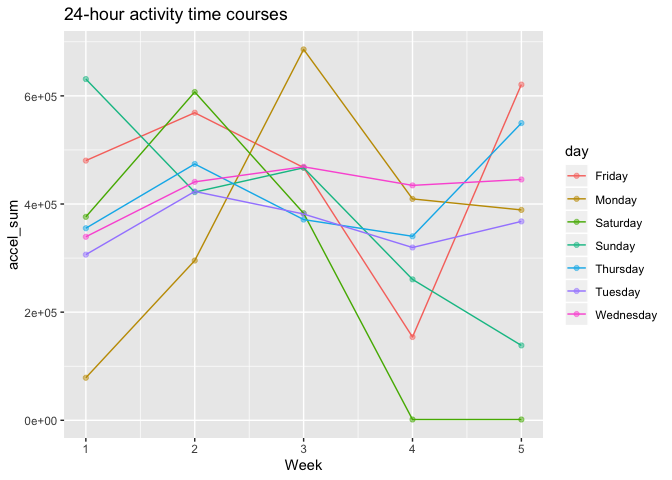
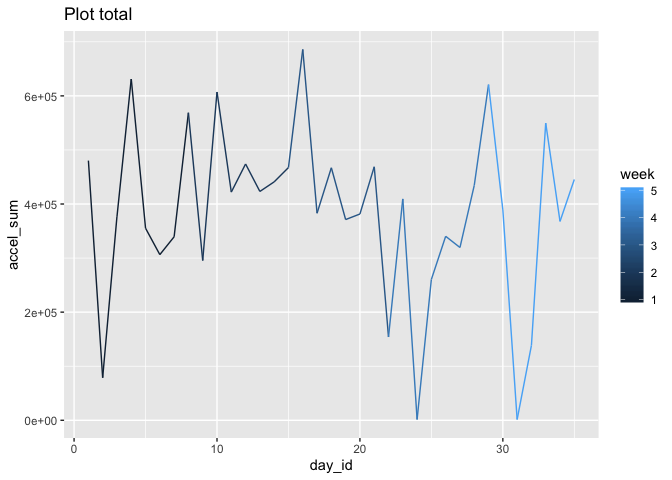
add some comment and make some changes

diff --git a/p8105_hw3_al3998.md b/p8105_hw3_al3998.md
@@ -3,7 +3,9 @@ p8105\_hw3\_al3998
 AimingLiu
 10/3/2019
 
-# Load the data from the p8105.datasets
+# Problem 1
+
+## Load the data from the p8105.datasets
 
 ``` r
 library(p8105.datasets)
@@ -27,7 +29,7 @@ when he/she bought it and the information about the products. It can be
 concluded that the row number of aisle is 134 and the most items ordered
 from fresh vegetables
 
-# Making a plot
+## Making a plot
 
 ``` r
   aisle_form %>% 
@@ -47,7 +49,7 @@ There are 134 aisle have items ordered more than 10000.The aisle which
 was ordered most is fresh vegetables and the number of it is 150609.The
 aisle which was ordered least is beauty and the number of it is 287.
 
-# Making a table showing the three most popular items
+## Making a table showing the three most popular items
 
 ``` r
  pop_form = instacart %>% 
@@ -83,7 +85,7 @@ higher than dog food care which means that packaged vegetables fruits is
 the most popular one in these three
 aisle.
 
-# Make a table showing the mean hour of the day at which Pink Lady Apples and Coffee Ice Cream are ordered on each day of the week
+## Make a table showing the mean hour of the day at which Pink Lady Apples and Coffee Ice Cream are ordered on each day of the week
 
 ``` r
   mean_hour_form = instacart %>% 
@@ -106,7 +108,7 @@ This is a 2\* 8 table.As we can see from the result,on each day of a
 week,the mean hour of the day at which Pink Lady Apples and Coffee Ice
 Cream are ordered are more than 11 and less than 16.And also on each day
 of a week,the mean hour of the day in Coffee Ice Cream is larger than
-Pink Lady Apples except Friday. \#Problem 2
+Pink Lady Apples except Friday. \# Problem 2
 
 ``` r
   library(p8105.datasets)
@@ -172,85 +174,107 @@ average_plot
 The name of x-axis is `Year`,and the name of y-axis is `average of the
 data value`.
 
+## Make a two-panel plot
+
 ``` r
  ny_data_1 = brfss_form %>% 
  filter(locationabbr == "NY" & year == "2006") %>% 
  select(locationdesc,response,data_value) %>% 
- ggplot(aes(x = locationdesc ,y = data_value ,color = response, group = response))+
- geom_point(size = 4,alpha = .7)+geom_line() +
+ ggplot(aes(x = locationdesc ,y = data_value ,fill = response, group = response))+
+ geom_bar(stat = 'identity', position = 'stack') + 
+   coord_flip()+
+  guides(fill = guide_legend(reverse= T))+
   labs(
      title = " distribution of data_value for responses in 2006",
      x = "locationdesc",
      y = "data_value"
-  )+ theme(legend.position = "bottom")
+  )+ theme(legend.position = "bottom", plot.title = element_text(color = "red", size = 24))
 
 
  ny_data_2 = brfss_form %>% 
  filter(locationabbr == "NY" & year == "2010") %>% 
  select(locationdesc,response,data_value) %>% 
- ggplot(aes(x = locationdesc ,y = data_value ,color = response ,group = response))+
- geom_point(size = 4,alpha = .7)+geom_line() +
+ ggplot(aes(x = locationdesc ,y = data_value ,fill = response ,group = response))+
+ geom_bar(stat = 'identity', position = 'stack') +
+  guides(fill = guide_legend(reverse= T))+ 
+   coord_flip()+
    labs(
      title = " distribution of data_value for responses in 2010",
      x = "locationdesc",
      y = "data_value"
-  )+ theme(legend.position = "bottom")
-
+  )+ theme(legend.position = "bottom",  plot.title = element_text(color = "red", size = 24),plot.tag =element_text(size = 24))
  
- ny_data_1+ny_data_2
+ ny_data_1/ny_data_2
 ```
 
 ![](p8105_hw3_al3998_files/figure-gfm/unnamed-chunk-12-1.png)<!-- -->
 
-As we can see from the two-panel plot,in year 2006,the difference in
-data\_value for response `Poor` between different locationdescs is not
-very much, so the line is flat.Also,the data\_value for response
-`Good`,`Very good` and `Excellent` changed a lot between different
-locationdescs,the line of them have ups and downs.
-
-In year 2010,the difference in data\_value for response `Poor` between
-different locationdescs is not very much,so the line is flat.Also,the
-data\_value for response `Good`,`Very good` changed a lot between
-different locationdescs,the line of them have ups and downs.For response
-`Good`,the data value in New York country is much lower than other
-locationdescs.
-
-\#Problem 3
-
 ``` r
-  accel_data = read_csv("./accel_data.csv") %>% 
-  janitor::clean_names() %>% 
-    mutate(weekday_end = case_when(day =="Monday" ~ "weekday",
-                                    day =="Tuesday" ~ "weekday",
-                                    day =="Wednesday" ~ "weekday",
-                                    day =="Thursday" ~ "weekday",
-                                    day =="Friday" ~ "weekday",
-                                    day =="Saturday" ~ "weekend",
-                                    day =="Sunday" ~ "weekend"
-                                )) %>% 
-  arrange(week,day_id) %>%
-  select(1:3,weekday_end,everything()) %>% 
-  mutate_if(is.double,as.integer)
+  ny_2006 = brfss_form %>% 
+  filter( locationabbr=="NY") %>% 
+  select(year,locationdesc,data_value,response) %>% 
+  filter(year == "2006") %>% 
+  group_by(response) %>% 
+  mutate(mean_NY = mean(data_value,na.rm=TRUE)) %>% 
+  ggplot(aes(x = data_value, fill = response)) + 
+  geom_density(alpha = .4)+
+  xlim(-5,50) +
+  labs(
+       x    = "data_value",
+       title = " Distribution of NY State in 2006"
+       )
+
+  ny_2010 = brfss_form %>% 
+  filter( locationabbr=="NY") %>% 
+  select(year,locationdesc,data_value,response) %>% 
+  filter(year == "2010") %>% 
+  group_by(response) %>% 
+  mutate(mean_NY = mean(data_value,na.rm=TRUE)) %>% 
+  ggplot(aes(x = data_value, fill = response)) + 
+  geom_density(alpha = .4)+
+  xlim(-5,50) +
+  labs(
+       x    = "data_value",
+       title = " Distribution of NY State in 2010"
+       )
+  
+ ny_2006/ny_2010
 ```
 
-    ## Parsed with column specification:
-    ## cols(
-    ##   .default = col_double(),
-    ##   day = col_character()
-    ## )
+![](p8105_hw3_al3998_files/figure-gfm/unnamed-chunk-13-1.png)<!-- -->
 
-    ## See spec(...) for full column specifications.
+As we can see from the two-panel plot,in year 2006,the data\_value for
+response `Poor` is lowest and is very concenreated.The degree of
+concentration of fair is more dispersive than `Poor` but is more
+concentrated than `Excellent`,`Good` and `Very good`.The degrees of
+concentration in `Excellent` and `Very good` are similar to each
+other.The data\_value of `Good` is the most dispersive one.
 
-For the resulting dataset,there are 35 observations and 1444
+In year 2010,the data\_value for response `Poor` is also the lowest one
+and is very concenreated.The degrees of concentration in `Fair`,`Very
+good` and `Good` are similar to each other.The data\_value of `Very
+good` is the most dispersive one and it disperses from around 20 to 50.
+
+Compared the two graphics, the location of `Poor`,`Excellent` and `Very
+good` are similar.The curve of `Fair` is more dispersive in 2010 than in
+2006 and the curve of `Good` is more dispersive in 2006.
+
+# Problem 3
+
+For the resulting dataset,there are 50400 observations and 6
 variables.The data set also include the information about week,day
 id,weekday and weekend.
 
+## create a table showing the totals
+
 ``` r
          total_accel_data = accel_data %>% 
-          mutate(accel_sum = rowSums(accel_data[,5:1444])) %>% 
-          select(week:weekday_end, accel_sum) 
-           
-         knitr::kable(total_accel_data)
+         group_by(day_id) %>% 
+         mutate(accel_sum = sum(activity_count)) %>%
+         select(week:weekday_end, accel_sum) %>%  
+         distinct()  
+         
+  knitr::kable(total_accel_data)
 ```
 
 | week | day\_id | day       | weekday\_end | accel\_sum |
@@ -292,24 +316,48 @@ id,weekday and weekend.
 |    5 |      35 | Wednesday | weekday      |     445366 |
 
 ``` r
- total_accel_data %>% 
-  select(week,day,accel_sum) %>% 
-  ggplot(aes(x = week,y = accel_sum,color = day))+
-  geom_point(alpha = .5)+geom_line()+
+  total_accel_data %>% 
+  ungroup(day_id) %>% 
+  ggplot(aes(x = day_id,y = accel_sum,color = week))+
+  geom_line()+
   labs(
-    title = "24-hour activity time courses ",
-    x = "Week",
+    title = "Plot Sum ",
+    x = "day_id",
     y = "accel_sum"
   )
 ```
 
-![](p8105_hw3_al3998_files/figure-gfm/unnamed-chunk-15-1.png)<!-- -->
+![](p8105_hw3_al3998_files/figure-gfm/unnamed-chunk-16-1.png)<!-- --> It
+is hard for us to conclude a trend from the table,so I draw a plot to
+help me see the trends.As we can see from the plot.when the `day_id` is
+24, 31,the sum of activity count is lowest,which is 1440.and when the
+`day_id` is 16,the sum of activity count is largest,which is 685910.
+From week one to week two,there is a trend in increasing.In week
+three,the fluctuation is to some extent weak and then in week four and
+five,the fluctuations are very
+dramatic.
 
-As we can see from the graphic,the 24-hour activity time courses for
-Monday suddenly increases and then decreases,for Tuesday and Wednesday
-the lines are smooth,and for Thursday the value of week 5 is much higher
-than weeks before.For Friday,its line suddenly drops and then increase
-sharply.For Saturday ,its line has a dramatic decline and then there is
-no difference in week 4 and 5,and the value is really small compared to
-others.The 24-hour activity time courses for Sunday keep decreasing
-except week 3.
+## Make a single-panel plot that shows the 24-hour activity time courses
+
+``` r
+  weekdays <-c("Sunday","Monday","Tuesday","Wednesday","Thursday","Friday","Saturday")
+  accel_data %>% 
+  mutate(day = factor(day,levels = weekdays,ordered = T)) %>% 
+  ggplot(aes(x = activity,y = activity_count,color = day))+
+  geom_line(alpha = .2)+
+  labs(
+    title = "24-hour activity time courses ",
+    x = "activity",
+    y = "activity_count"
+  )
+```
+
+![](p8105_hw3_al3998_files/figure-gfm/unnamed-chunk-17-1.png)<!-- -->
+
+As we can see from the graphic,the `activity_count` of the 24-hour
+activity time courses suddenly drops during a specific period of time in
+almost everyday in a week which means that during this period of time
+the count of activity is small.Also, we can see from the graphic,there
+are about 2~3 peaks in `activity_count` which means during these peroid
+of time in everyday,the count of activity is larger than count during
+other period of time in a day.
